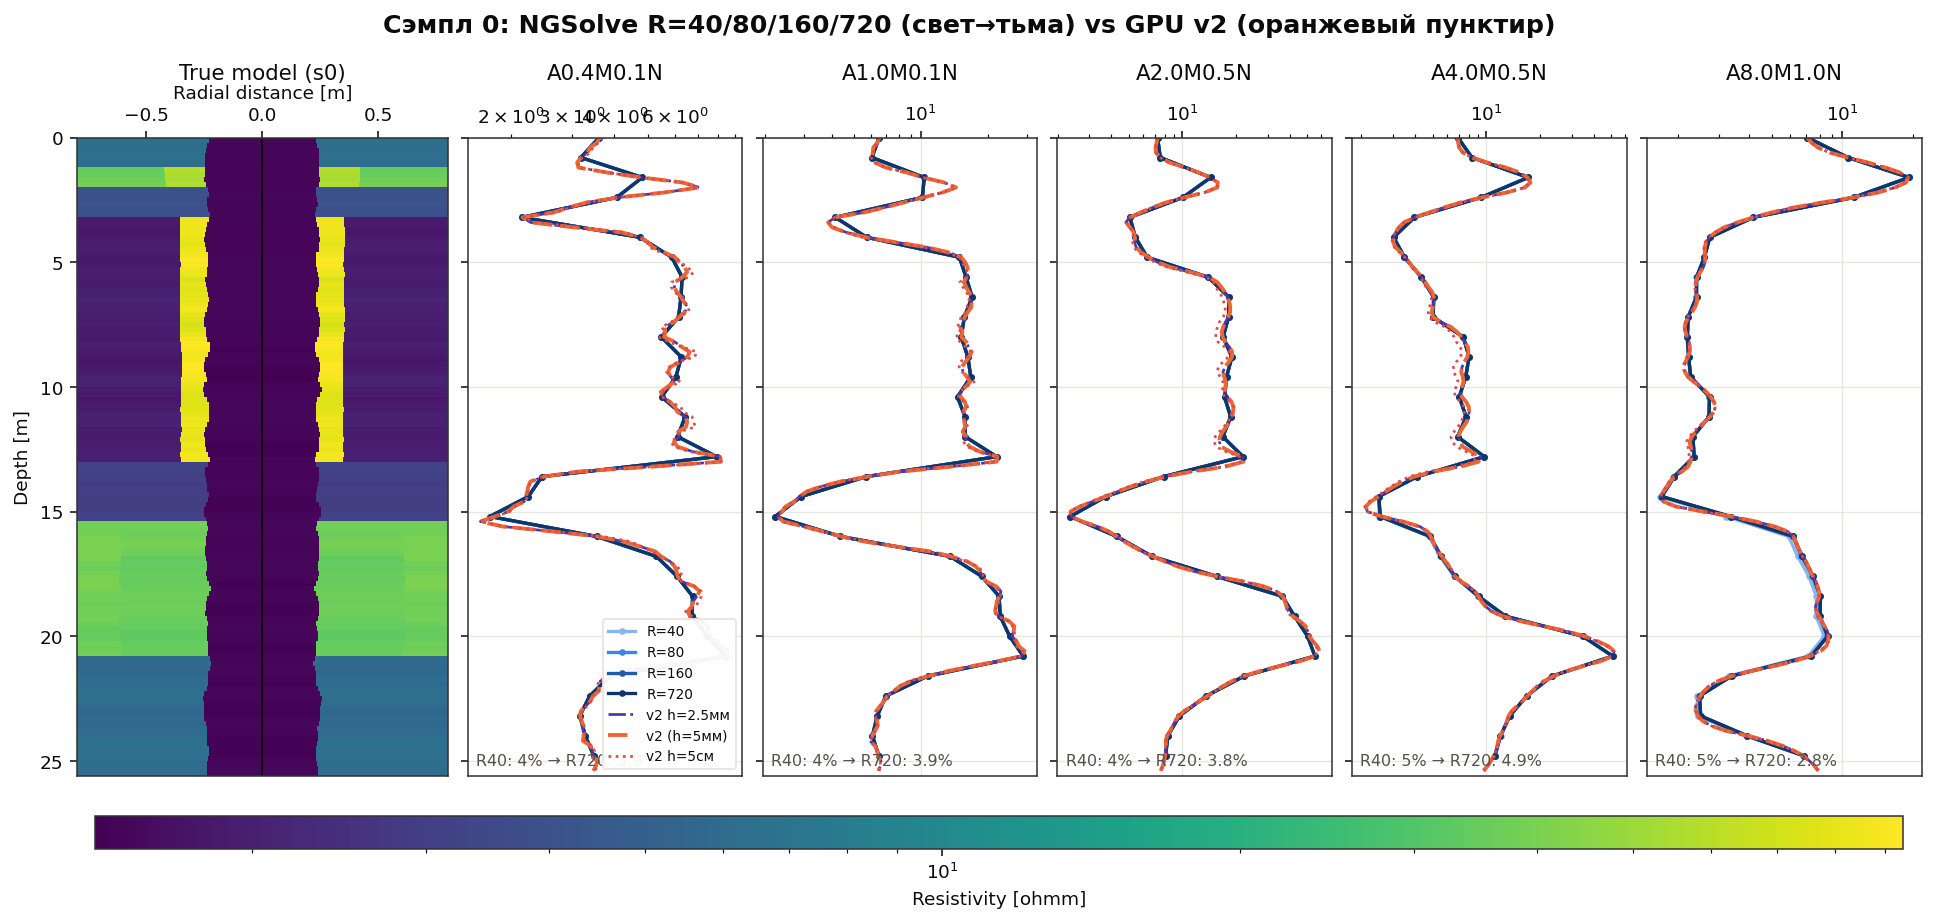
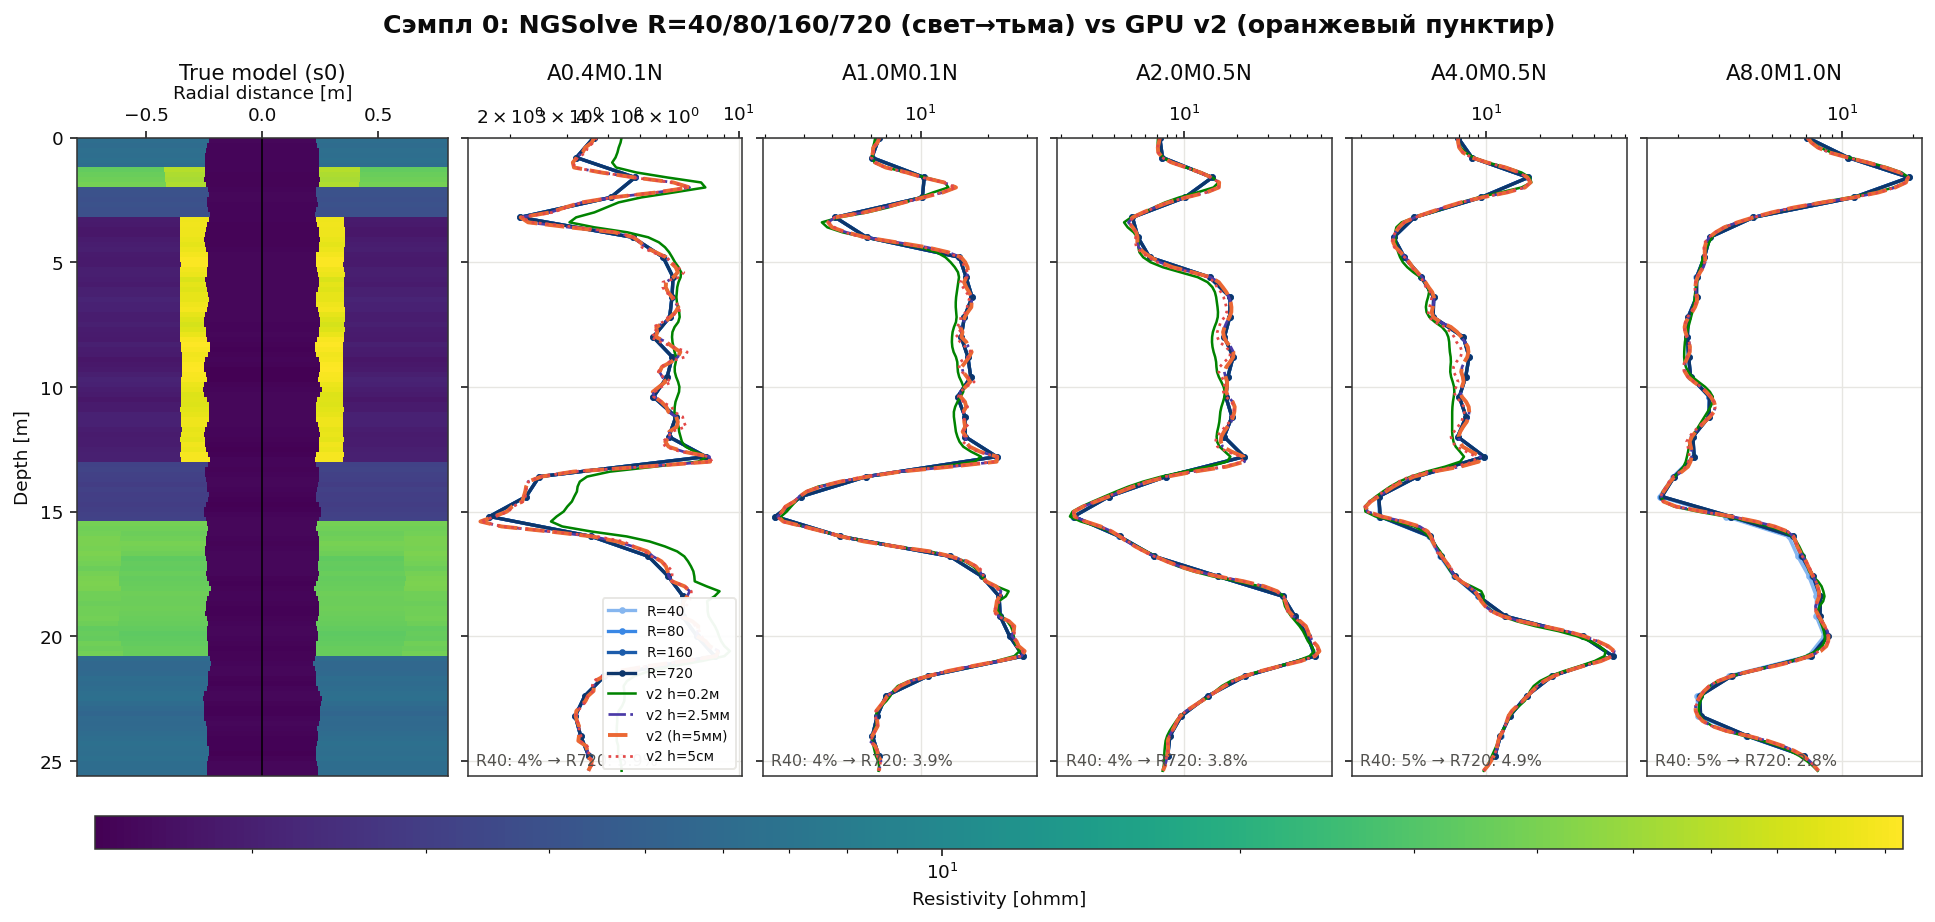
gpu_solver v2: interp_electrodes (off-node sources/probes) + h=0.2 m curves
- _node_frac with alpha snapping (dedup-key bug: float-noise alpha~1 bled
  into the next radial fid; anchor test now 9e-8 on the exact lattice)
- make_solver/extract_logs handle fractional electrodes
- v2 h=0.2 m added to the 8-sample gallery (mean 10%, max 90% vs 5 mm —
  the resolution cliff; short tools break first: M-N gap < cell)

diff --git a/remo3d/gpu_solver/global_op.py b/remo3d/gpu_solver/global_op.py
@@ -186,8 +186,27 @@ def _node_indices(z_nodes, coords, tol=1e-6):
     return j
 
 
+def _node_frac(z_nodes, coords):
+    """Bracketing node index and linear weight for arbitrary coordinates.
+
+    Weights are snapped so that on-node points return alpha == 0 exactly
+    (float noise otherwise yields alpha ~ 1 with the PREVIOUS node as base,
+    which corrupts the scalar fid+alpha dedup key: fid granularity is the
+    radial cell, not the z row).
+    """
+    z = np.asarray(z_nodes)
+    c = np.asarray(coords, dtype=float)
+    j = np.clip(np.searchsorted(z, c, side="right") - 1, 0, len(z) - 2)
+    a = np.clip((c - z[j]) / (z[j + 1] - z[j]), 0.0, 1.0)
+    hi = a > 1.0 - 1e-6
+    j = np.where(hi, np.minimum(j + 1, len(z) - 2), j)
+    a = np.where(hi | (a < 1e-6), 0.0, a)
+    return j, a
+
+
 def build_global_tasks(tools, depths, formation, borehole, h_min=None,
-                       domain_radius=None, growth=1.15, fine_margin=0.5):
+                       domain_radius=None, growth=1.15, fine_margin=0.5,
+                       interp_electrodes=False):
     """Sample-independent part of the global problem: grid + task indexing.
 
     The grid depends only on (tools, depths) — canonical radial nodes and the
@@ -225,23 +244,49 @@ def build_global_tasks(tools, depths, formation, borehole, h_min=None,
     fid[1:-1, :-1] = np.arange((nz - 2) * (nr - 1)).reshape(nz - 2, nr - 1)
 
     tasks = {}
-    for t, c in cfgs.items():
-        zs = depths + c["depth_shift"]
-        j_src = _node_indices(z_nodes, zs)
-        j_M = _node_indices(z_nodes, zs + c["dz_M"])
-        j_N = _node_indices(z_nodes, zs + c["dz_N"])
-        tasks[t] = {
-            "src": fid[j_src, 0], "M": fid[j_M, 0], "N": fid[j_N, 0],
-            "K": c["K"],
-        }
-        assert (tasks[t]["src"] >= 0).all()
+    if interp_electrodes:
+        # Electrodes may fall BETWEEN nodes (coarse grids, e.g. h=0.2 m):
+        # the source is split linearly over the two bracketing nodes and
+        # U(M)/U(N) are read by linear interpolation — an APPROXIMATION in
+        # the spirit of the CPU pipeline's batching offset, for resolution
+        # studies only (the default exact-node path raises instead).
+        for t, c in cfgs.items():
+            zs = depths + c["depth_shift"]
+            j_s, a_s = _node_frac(z_nodes, zs)
+            j_m, a_m = _node_frac(z_nodes, zs + c["dz_M"])
+            j_n, a_n = _node_frac(z_nodes, zs + c["dz_N"])
+            assert (j_s >= 1).all() and (j_s + 1 <= nz - 2).all()
+            tasks[t] = {"src": fid[j_s, 0], "src_a": a_s,
+                        "M": fid[j_m, 0], "M_a": a_m,
+                        "N": fid[j_n, 0], "N_a": a_n, "K": c["K"]}
+        keys = np.concatenate(
+            [tk["src"] + np.round(tk["src_a"], 6) for tk in tasks.values()])
+        uniq_keys, inv = np.unique(np.round(keys, 6), return_inverse=True)
+        uniq_src = (np.floor(uniq_keys + 1e-9)).astype(np.int64)
+        uniq_alpha = uniq_keys - uniq_src
+        ofs = 0
+        for tk in tasks.values():
+            tk["col"] = inv[ofs:ofs + len(depths)]
+            ofs += len(depths)
+    else:
+        uniq_alpha = None
+        for t, c in cfgs.items():
+            zs = depths + c["depth_shift"]
+            j_src = _node_indices(z_nodes, zs)
+            j_M = _node_indices(z_nodes, zs + c["dz_M"])
+            j_N = _node_indices(z_nodes, zs + c["dz_N"])
+            tasks[t] = {
+                "src": fid[j_src, 0], "M": fid[j_M, 0], "N": fid[j_N, 0],
+                "K": c["K"],
+            }
+            assert (tasks[t]["src"] >= 0).all()
 
-    all_src = np.concatenate([tk["src"] for tk in tasks.values()])
-    uniq_src, inv = np.unique(all_src, return_inverse=True)
-    ofs = 0
-    for tk in tasks.values():
-        tk["col"] = inv[ofs:ofs + len(depths)]
-        ofs += len(depths)
+        all_src = np.concatenate([tk["src"] for tk in tasks.values()])
+        uniq_src, inv = np.unique(all_src, return_inverse=True)
+        ofs = 0
+        for tk in tasks.values():
+            tk["col"] = inv[ofs:ofs + len(depths)]
+            ofs += len(depths)
 
     # Reciprocity accounting (E3): solving from the measuring electrodes
     # instead would need one column per unique M/N node.
@@ -254,7 +299,8 @@ def build_global_tasks(tools, depths, formation, borehole, h_min=None,
         "h_min": float(h_min), "domain_radius": float(domain_radius),
         "bandwidth": nr - 1,
         "tasks": tasks, "n_free": int((nz - 2) * (nr - 1)),
-        "uniq_src": uniq_src, "n_tasks": int(len(tools) * len(depths)),
+        "uniq_src": uniq_src, "uniq_alpha": uniq_alpha,
+        "n_tasks": int(len(tools) * len(depths)),
         "n_src_recip": int(len(uniq_recip)),
     }
 

diff --git a/remo3d/gpu_solver/global_gpu.py b/remo3d/gpu_solver/global_gpu.py
@@ -210,12 +210,21 @@ def make_solver(problem, precision="mixed", mud="log", n_refine=3,
     k_full = -(-k // k_pad_to) * k_pad_to
     rows = uniq // m                     # free z-row of each source (axis i=0)
     cols = np.arange(k)
+    alpha = problem.get("uniq_alpha")
     b_axis = np.zeros((problem["n_free"] // m, k_full))
-    b_axis[rows, cols] = 1.0             # padded tail columns stay zero
+    if alpha is None:
+        b_axis[rows, cols] = 1.0         # padded tail columns stay zero
+        z_src = problem["z_nodes"][rows + 1]
+    else:
+        # off-node sources (interp_electrodes): current split linearly over
+        # the two bracketing axis nodes
+        b_axis[rows, cols] = 1.0 - alpha
+        b_axis[rows + 1, cols] += alpha
+        z_src = ((1 - alpha) * problem["z_nodes"][rows + 1]
+                 + alpha * problem["z_nodes"][rows + 2])
     b_axis = jnp.asarray(b_axis, dtype)  # scaled per sample, then cast
     # simulation depth of each source column (mud="cpu": one scalar RM each);
     # padded tail repeats the first z (their b columns are zero anyway)
-    z_src = problem["z_nodes"][rows + 1]
     z_src = jnp.asarray(np.pad(z_src, (0, k_full - k), mode="edge"), dtype)
 
     def blocks(Tr, Tz):
@@ -365,8 +374,15 @@ def extract_logs(problem, X0):
         logs = {}
         for t in problem["tools"]:
             tk = problem["tasks"][t]
-            dU = (X0[b, tk["M"] // m, tk["col"]]
-                  - X0[b, tk["N"] // m, tk["col"]])
+            if "M_a" in tk:              # off-node probes: linear interp
+                uM = ((1 - tk["M_a"]) * X0[b, tk["M"] // m, tk["col"]]
+                      + tk["M_a"] * X0[b, tk["M"] // m + 1, tk["col"]])
+                uN = ((1 - tk["N_a"]) * X0[b, tk["N"] // m, tk["col"]]
+                      + tk["N_a"] * X0[b, tk["N"] // m + 1, tk["col"]])
+                dU = uM - uN
+            else:
+                dU = (X0[b, tk["M"] // m, tk["col"]]
+                      - X0[b, tk["N"] // m, tk["col"]])
             logs[t] = tk["K"] * np.abs(dU)
         out.append(logs)
     return out

diff --git a/wiki/log.md b/wiki/log.md
@@ -212,3 +212,12 @@ Append-only, chronological. Newest at the bottom. Entry kinds: `scaffold`,
   (0.05 m lattice) must be grid nodes; A0.4's 0.1 m M-N gap < cell.
 - Boundary samples (s24/48/66): A8.0 16-20% @R40 -> 2-7% @R720; mud samples
   (s45/56/86/98): R-insensitive 5-13%.
+
+## [2026-07-18] update | v2 h=0.2 m added (interp_electrodes) + gallery updated
+- global_op/global_gpu: interp_electrodes=True — electrodes may fall between
+  nodes (source split over bracketing nodes, probes linearly interpolated);
+  anchor test on the exact lattice: 9e-8. Fixed a dedup-key bug (alpha~1 from
+  float noise bled into the next RADIAL fid; snap alpha->0 with node advance).
+- v2 at h=0.2 m (grid 49x268, 13k DOF): vs default 5 mm — mean 10%, max 90%;
+  A0.4 mean 25% (M-N gap 0.1 m sits inside one cell). Green curve added to all
+  8 gallery figures; resolution ladder now 2.5mm/5mm/5cm/0.2m.
